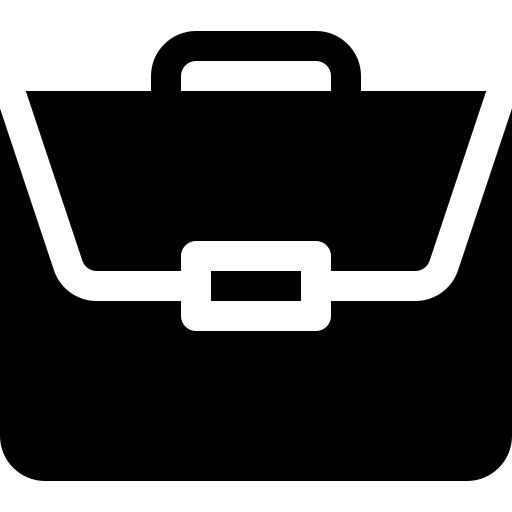
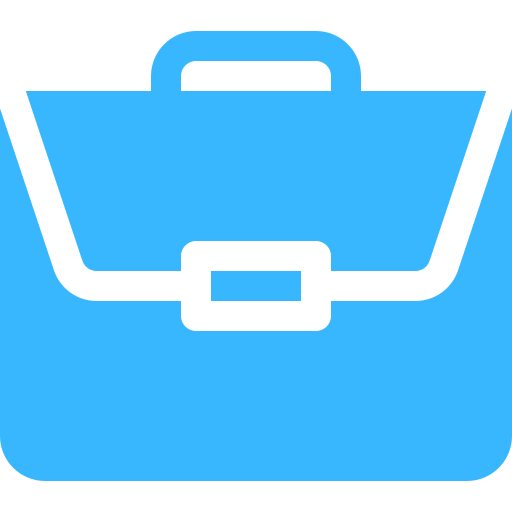
new design 27-05-2019

diff --git a/src/pages/dealer-order-details/dealer-order-details.html b/src/pages/dealer-order-details/dealer-order-details.html
@@ -127,19 +127,20 @@
     </ion-card>
 
     <ion-card *ngIf="item?.showassignstatus == true " class="dealer_contnr">
-      <ion-card-content class="no_margin no_padding">
+      <ion-card-header class="cardtop_heading"><span class="statusupdt">{{ 'ORDER_DETAILS_PAGE.LABELS.lb_supplier_details' | translate }}</span></ion-card-header>
+      <ion-card-content class="no_margin no_padding" >
         <ion-row>
           <ion-col col-sm-5 col-md-5 col-lg-5 col-xl-5 class="fs-15">
-            {{ 'ORDER_DETAILS_PAGE.LABELS.lb_supplier_details' | translate }}
+
           </ion-col>
           <ion-col col-sm-7 col-md-7 col-lg-7 col-xl-7 class="right">
           </ion-col>
         </ion-row>
-        <ion-item class="no_margin no_padding">
+        <ion-item class="no_margin no_padding" style="padding: 0;">
           <ion-icon name="person" item-left small class="no_margin no_padding"></ion-icon>
           <span *ngIf="item?.suppliername" class="text_output no_margin pdleft12-nopadding">{{item?.suppliername }}</span>
         </ion-item>
-        <ion-item class="no_margin no_padding logo-color" (click)="callNow(item?.supplierdetails.mobileno)" *ngIf="item?.supplierdetails">
+        <ion-item class="no_margin no_padding logo-color" (click)="callNow(item?.supplierdetails.mobileno)" *ngIf="item?.supplierdetails" style="padding: 0;">
           <ion-icon name="call" small class="no_margin no_padding"></ion-icon>
           <span class="text_output no_margin pdleft12-nopadding" style="color:#0f75bc;">{{item?.supplierdetails.mobileno}}</span>
         </ion-item>
@@ -156,7 +157,7 @@
           <ion-col col-sm-7 col-md-7 col-lg-7 col-xl-7 class="right">
           </ion-col>
         </ion-row>
-        <ion-item class="no_margin no_padding">
+        <ion-item class="no_margin no_padding" style="padding: 0;">
           <ion-icon name="person" item-left small class="no_margin no_padding"></ion-icon>
           <span class="text_output no_margin pdleft12-nopadding">{{item?.dealerdetails.firstname + " "+item?.dealerdetails.lastname }}</span>
         </ion-item>
@@ -166,7 +167,7 @@
             <span>{{item?.dealerdetails.address+", "+item?.dealerdetails.city+", "+item?.dealerdetails.state + "," + item?.dealerdetails.pincode}}</span>
           </ion-card-content>
         </ion-row>
-        <ion-item (click)="callNow(item?.dealerdetails.mobileno)" class=" no_padding no_margin logo-color">
+        <ion-item (click)="callNow(item?.dealerdetails.mobileno)" class=" no_padding no_margin logo-color" style="padding: 0;">
           <ion-icon name="call" small></ion-icon>
           <span class="text_output no_margin pdleft12-nopadding" style="color:#0f75bc;">{{item?.dealerdetails.mobileno}}</span>
         </ion-item>
@@ -174,9 +175,9 @@
     </ion-card>
 
     <ion-card>
-
+      <ion-card-header class="cardtop_heading"><span class="statusupdt">  {{ 'ORDER_DETAILS_PAGE.LABELS.lb_order_msg' | translate }}</span></ion-card-header>
       <ion-card-content class="no_padding no_margin">
-        <ion-card-header class="cardtop_heading"><span class="statusupdt">  {{ 'ORDER_DETAILS_PAGE.LABELS.lb_order_msg' | translate }}</span></ion-card-header>
+
         <ion-row>
           <ion-col col-sm-5 col-md-5 col-lg-5 col-xl-5 class="fs-15">
 

diff --git a/src/pages/login/login.scss b/src/pages/login/login.scss
@@ -59,13 +59,13 @@ page-log-in {
     width: 100%;
     padding: 0 !important;
     background: rgba(88, 159, 209, 1);
-    background: -moz-linear-gradient(top, rgba(88, 159, 209, 1) 0%, rgba(72, 139, 255, 1) 100%);
-    background: -webkit-gradient(left top, left bottom, color-stop(0%, rgba(88, 159, 209, 1)), color-stop(100%, rgba(72, 139, 255, 1)));
-    background: -webkit-linear-gradient(top, rgba(88, 159, 209, 1) 0%, rgba(72, 139, 255, 1) 100%);
-    background: -o-linear-gradient(top, rgba(88, 159, 209, 1) 0%, rgba(72, 139, 255, 1) 100%);
-    background: -ms-linear-gradient(top, rgba(88, 159, 209, 1) 0%, rgba(72, 139, 255, 1) 100%);
-    background: linear-gradient(to bottom, rgba(88, 159, 209, 1) 0%, rgba(72, 139, 255, 1) 100%);
-    filter: progid:DXImageTransform.Microsoft.gradient(startColorstr='#589fd1', endColorstr='#488bff', GradientType=0);
+    background: -moz-linear-gradient(top, rgba(132, 205, 246, 1) 0%, rgba(56, 183, 254, 1) 100%);
+    background: -webkit-gradient(left top, left bottom, color-stop(0%, rgba(132, 205, 246, 1)), color-stop(100%, rgba(56, 183, 254, 1)));
+    background: -webkit-linear-gradient(top, rgba(132, 205, 246, 1) 0%, rgba(56, 183, 254, 1) 100%);
+    background: -o-linear-gradient(top, rgba(132, 205, 246, 1) 0%, rgba(56, 183, 254, 1) 100%);
+    background: -ms-linear-gradient(top, rgba(132, 205, 246, 1) 0%, rgba(56, 183, 254, 1) 100%);
+    background: linear-gradient(to bottom, rgba(132, 205, 246, 1) 0%, rgba(56, 183, 254, 1) 100%);
+    filter: progid:DXImageTransform.Microsoft.gradient(startColorstr='#38b7fe', endColorstr='#84cdf6', GradientType=0);
   }
 
   .orOption {

diff --git a/src/app/app.scss b/src/app/app.scss
@@ -70,6 +70,8 @@ ion-icon {
 .customer_mgmnttop {
   background: transparent !important;
   box-shadow: none;
+  margin: 0;
+  width: 100%;
 
   .tp_searachbox {
     background: #fff;
@@ -94,13 +96,25 @@ ion-icon {
   padding: 10px 0;
   cursor: pointer;
 }
-@media (min-width: 400px) {
+@media (min-width: 300px) {
   .fixscrollcontainer
-  {width :100%}
+  {width :100%; display: inline; }
+  .loginapp_icon .logo_container{ padding:25px 0 !important;}
 
 }
-@media (min-width: 400px) {
+@media (min-width: 550px) {
   .fixscrollcontainer
-  {width :550px; margin:0 auto;}
-
+  {width :550px; margin:0 auto; display: block;}
 }
+.platform-ios .item-md.item-input.ng-invalid.ng-touched:not(.input-has-focus):not(.item-input-has-focus) .item-inner {
+  border-bottom: none !important;
+  box-shadow: none !important;
+}
+.platform-ios .item-md.item-input.input-has-focus .item-inner {
+  border: 1px solid #fff !important;
+  -webkit-box-shadow:none !important;
+  box-shadow :none !important;
+}
+.card_lst_cntr.card-ios{margin: 12px 0 0 0;
+  width: 100%;}
+.alert-ios .alert-wrapper{color: #444;}

diff --git a/src/pages/dealer-orders-ordered/dealer-orders-ordered.html b/src/pages/dealer-orders-ordered/dealer-orders-ordered.html
@@ -37,18 +37,11 @@
   <ion-list *ngIf="!noRecords">
     <div *ngFor="let order of response">
 
-      <ion-card class="colomn_main">
+      <ion-card class="colomn_main card_lst_cntr">
 
         <ion-card-header class="jobid_header">
           <span class="jobassign_no">#{{order.order_id}}</span> <div class="order_heading"> <label>Status</label><span>{{order.statusUpdated}}</span></div>
         </ion-card-header>
-
-        <ion-row>
-
-
-        </ion-row>
-
-
         <ion-row>
           <ion-col><span class="job_mgm_lbl">Cart ID</span>{{order.cart_id}}</ion-col>
           <ion-col><span class="job_mgm_lbl">Delivery Time</span>{{order.delivery_exceptedtime}}</ion-col>

diff --git a/src/pages/login/login.html b/src/pages/login/login.html
@@ -1,5 +1,6 @@
 <ion-content>
-  <ion-row>
+  <div class="fixscrollcontainer">
+  <ion-row class="loginapp_icon">
     <ion-card class="logo_container">
       <ion-item class="no_bg">
         <img src="assets/imgs/ic_launcher.png" class="login-img">
@@ -7,7 +8,7 @@
     </ion-card>
   </ion-row>
 
-  <ion-row>
+  <ion-row class="loginapp_icon">
     <ion-card class="no_bg login_fields ">
       <ion-row>
         <ion-label center class="sign_toplabel">{{ 'LOGIN_PAGE.PAGE_TITLE' | translate }}</ion-label>
@@ -47,5 +48,6 @@
       <img src="assets/imgs/powerby.png" class="" width="55%">
     </ion-col>
   </ion-row>-->
+  </div>
 </ion-content>
 

diff --git a/src/pages/supplier-orders-completed/supplier-orders-completed.scss b/src/pages/supplier-orders-completed/supplier-orders-completed.scss
@@ -7,12 +7,14 @@ page-supplier-orders-completed {
   }
   .jobid_header.card-header {
 
-    color: #38b7fe !important;
+    color: #fff !important;
     text-align: left;
     display: flex;
+    color: #38b7fe !important;
+    padding: 0 0 0 10px;
     .jobassign_no {
-      background: #ededed;
-      padding: 14px;
+      color:#fff;
+      padding: 14px 14px 14px 0;
       font-size: 18px;
     }
     .order_heading {
@@ -38,9 +40,9 @@ page-supplier-orders-completed {
   }
 
   .ord_address{
-    float: left;
+
     width: 92%;
-    margin-left: 5px;
+    margin-left: 5px;line-height: 18px;
   }
   .job_mgm_lbl {
     width: 100%;

diff --git a/src/pages/dealer-orders-ordered/dealer-orders-ordered.scss b/src/pages/dealer-orders-ordered/dealer-orders-ordered.scss
@@ -7,12 +7,15 @@ page-dealer-orders-ordered {
   }
   .jobid_header.card-header {
 
-    color: #38b7fe !important;
+    background: #38b7fe !important;
     text-align: left;
     display: flex;
+    color:#fff;
+    padding: 0 0 0 10px;
+
     .jobassign_no {
-      background: #ededed;
-      padding: 14px;
+     color:#fff;
+      padding: 14px 14px 14px 0;
       font-size: 18px;
     }
     .order_heading {
@@ -38,9 +41,10 @@ page-dealer-orders-ordered {
      }
 
   .ord_address{
-     float: left;
+
      width: 92%;
      margin-left: 5px;
+    line-height: 18px;
    }
   .job_mgm_lbl {
     width: 100%;

diff --git a/src/pages/dealer-orders-completed/dealer-orders-completed.scss b/src/pages/dealer-orders-completed/dealer-orders-completed.scss
@@ -7,12 +7,14 @@ page-dealer-orders-completed {
   }
   .jobid_header.card-header {
 
-    color: #38b7fe !important;
+    color: #fff !important;
     text-align: left;
     display: flex;
+    background: #38b7fe !important;
+    padding: 0 0 0 10px;
     .jobassign_no {
-      background: #ededed;
-      padding: 14px;
+      color:#fff;
+      padding: 14px 14px 14px 0;
       font-size: 18px;
     }
 
@@ -37,8 +39,8 @@ page-dealer-orders-completed {
 
 
   } .ord_address{
-      float: left;
-      width: 92%;
+
+      width: 92%;line-height: 18px;
       margin-left: 5px;
     }
   .ion-md-pin {

diff --git a/src/pages/dealer-orders-completed/dealer-orders-completed.html b/src/pages/dealer-orders-completed/dealer-orders-completed.html
@@ -1,5 +1,5 @@
 <ion-content padding>
-
+  <div class="fixscrollcontainer">
   <ion-spinner *ngIf="showProgress" block class="spinner_center" color="primary" item-center
                name="crescent"></ion-spinner>
   <ion-refresher (ionRefresh)="doRefresh($event)">
@@ -72,4 +72,5 @@
   <ion-infinite-scroll (ionInfinite)="$event.waitFor(doInfinite($event))">
     <ion-infinite-scroll-content></ion-infinite-scroll-content>
   </ion-infinite-scroll>
+  </div>
 </ion-content>

diff --git a/src/pages/supplier-orders-pending/supplier-orders-pending.scss b/src/pages/supplier-orders-pending/supplier-orders-pending.scss
@@ -11,8 +11,8 @@ page-supplier-orders-pending {
     text-align: left;
     display: flex;
     .jobassign_no {
-      background: #ededed;
-      padding: 14px;
+      color:#fff;
+      padding: 14px 14px 14px 0;
       font-size: 18px;
     }
     .order_heading {
@@ -38,9 +38,10 @@ page-supplier-orders-pending {
   }
 
   .ord_address{
-    float: left;
+
     width: 92%;
     margin-left: 5px;
+    line-height: 18px;
   }
   .job_mgm_lbl {
     width: 100%;

diff --git a/src/pages/supplier-orders-completed/supplier-orders-completed.html b/src/pages/supplier-orders-completed/supplier-orders-completed.html
@@ -13,7 +13,7 @@
   <ion-list *ngIf="!noRecords">
     <div *ngFor="let order of response; let i = index;">
 
-      <ion-card class="colomn_main">
+      <ion-card class="colomn_main ">
 
         <ion-card-header class="jobid_header">
           <span class="jobassign_no">#{{order?.order_id}}</span> <div class="order_heading"> <label>Status</label><span>{{order.statusUpdated}}</span></div>

diff --git a/src/pages/dealer-car-models/dealer-car-models.html b/src/pages/dealer-car-models/dealer-car-models.html
@@ -16,7 +16,7 @@
 </ion-header>
 
 <ion-content padding>
-
+  <div class="fixscrollcontainer">
   <ion-spinner *ngIf="showProgress" block class="spinner_center" color="primary" item-center
                name="crescent"></ion-spinner>
   <ion-refresher (ionRefresh)="doRefresh($event)">
@@ -46,4 +46,5 @@
       </ion-card>
     </div>
   </ion-list>
+  </div>
 </ion-content>
